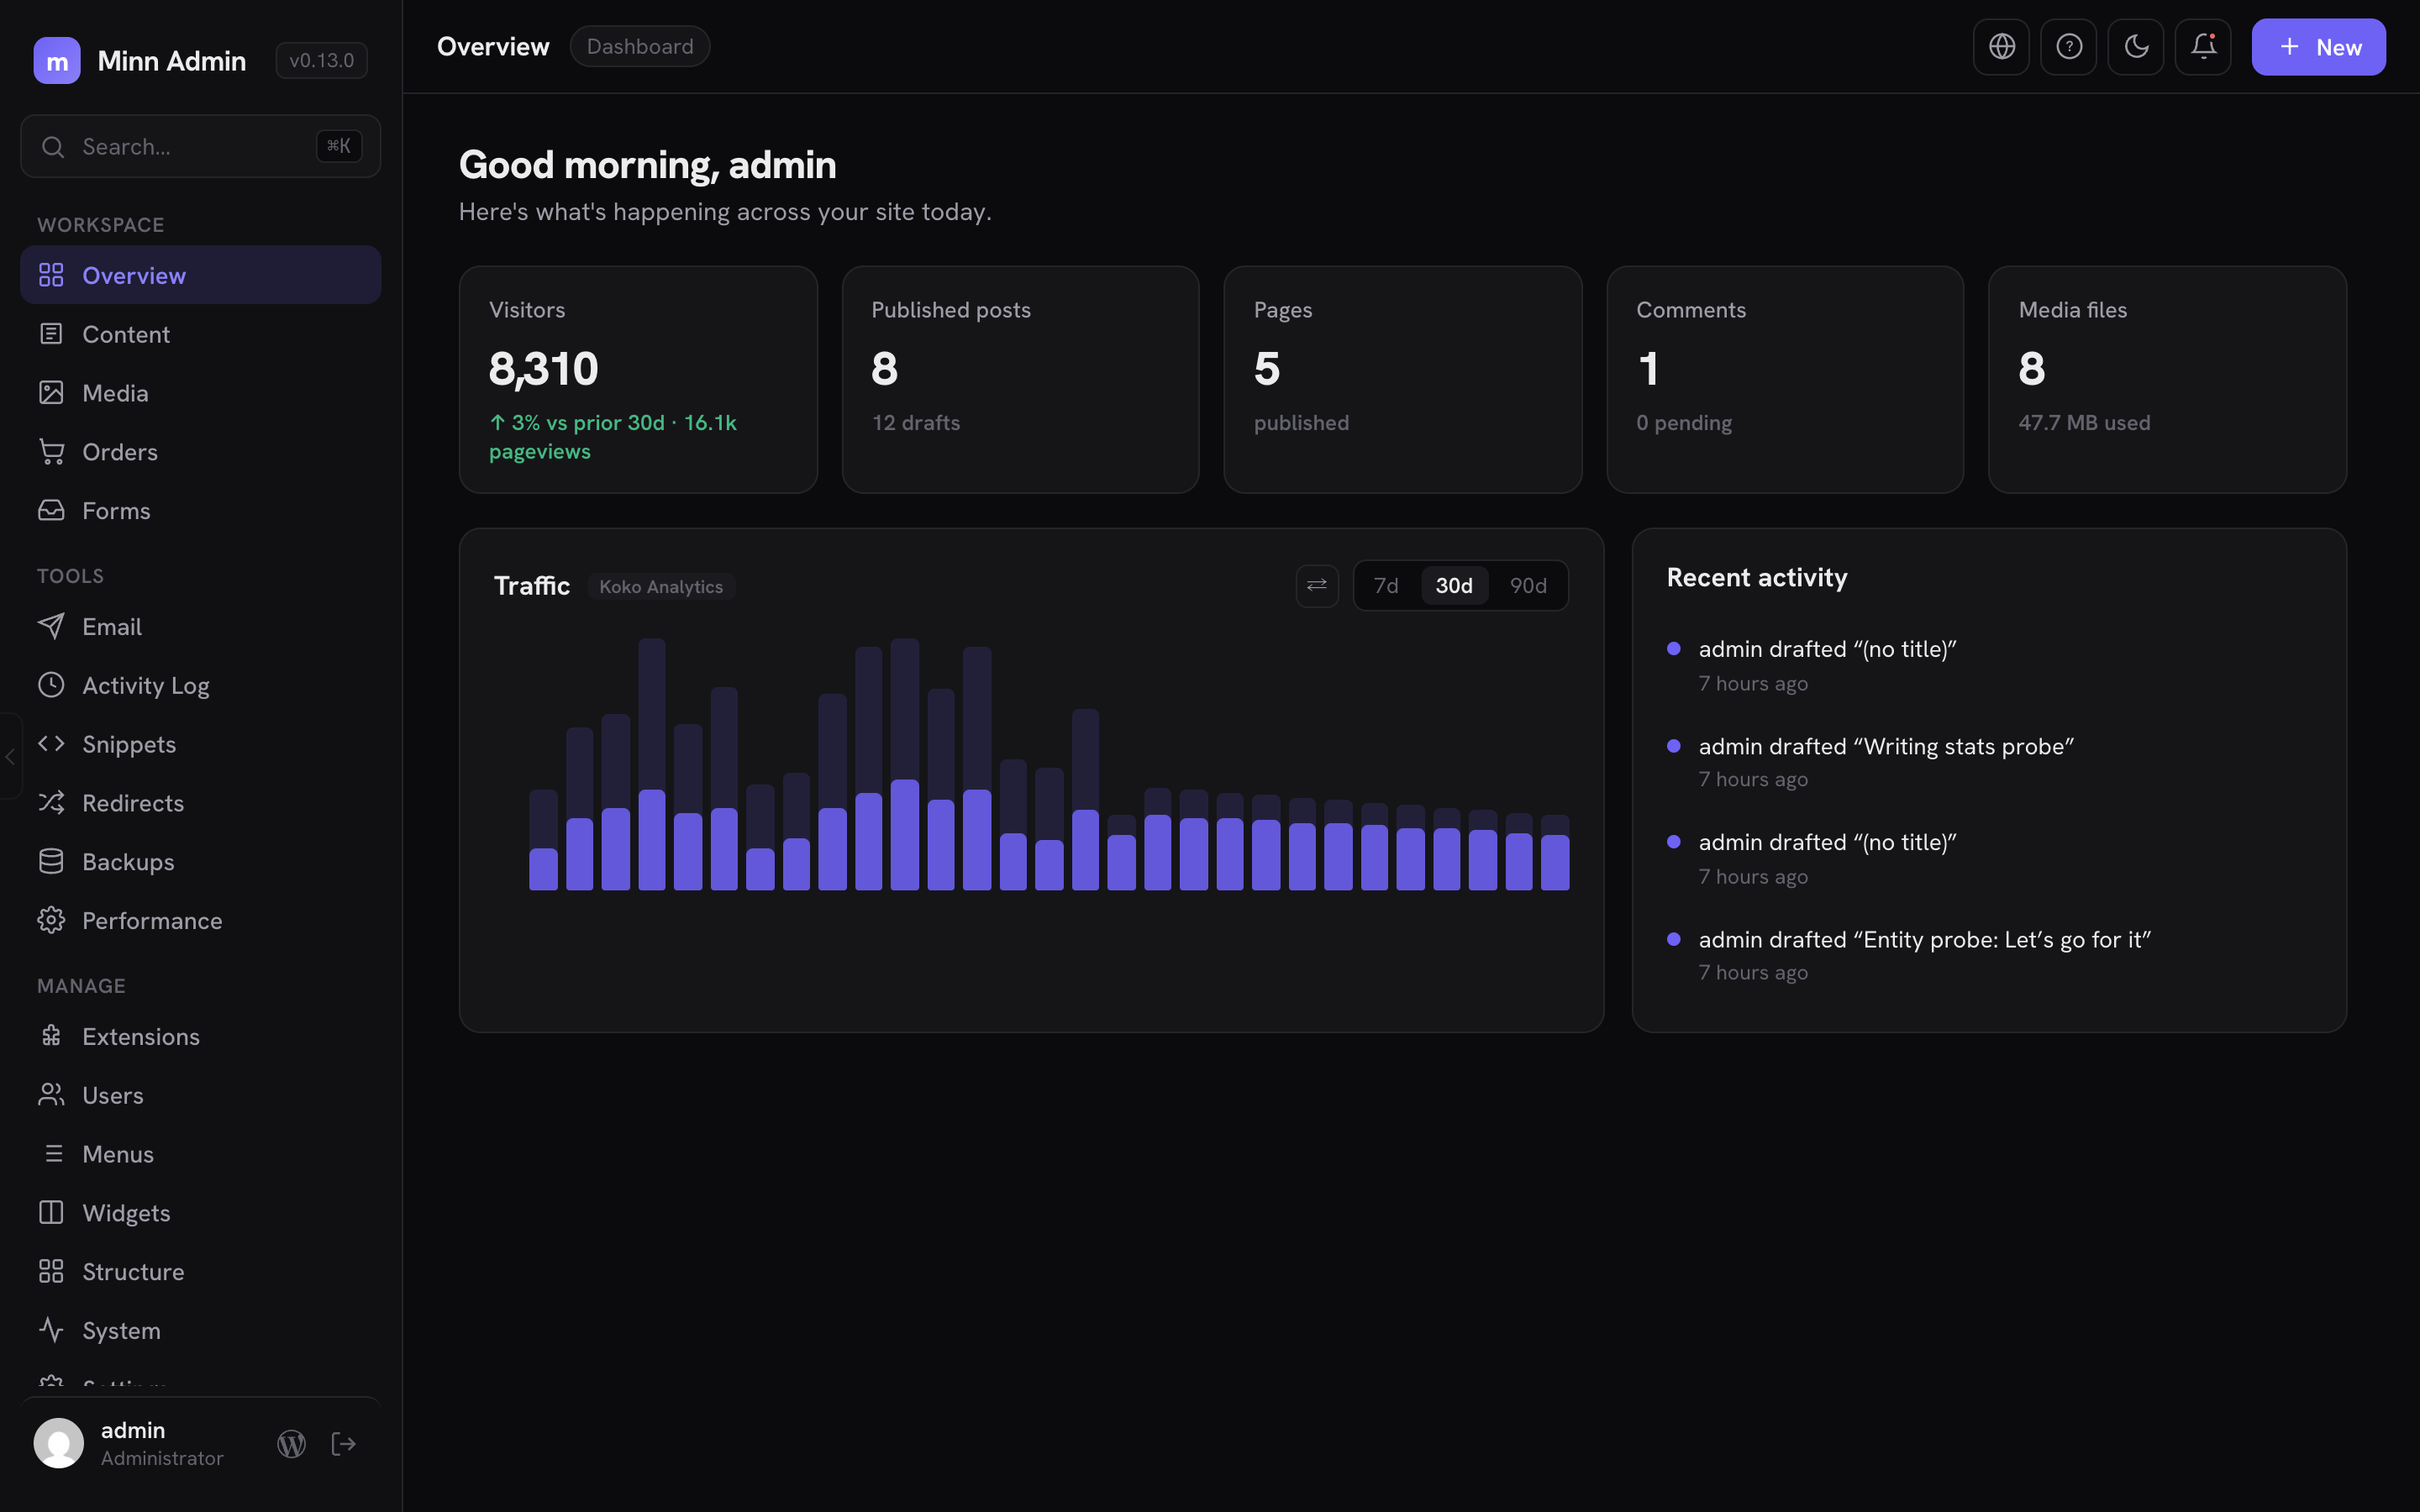
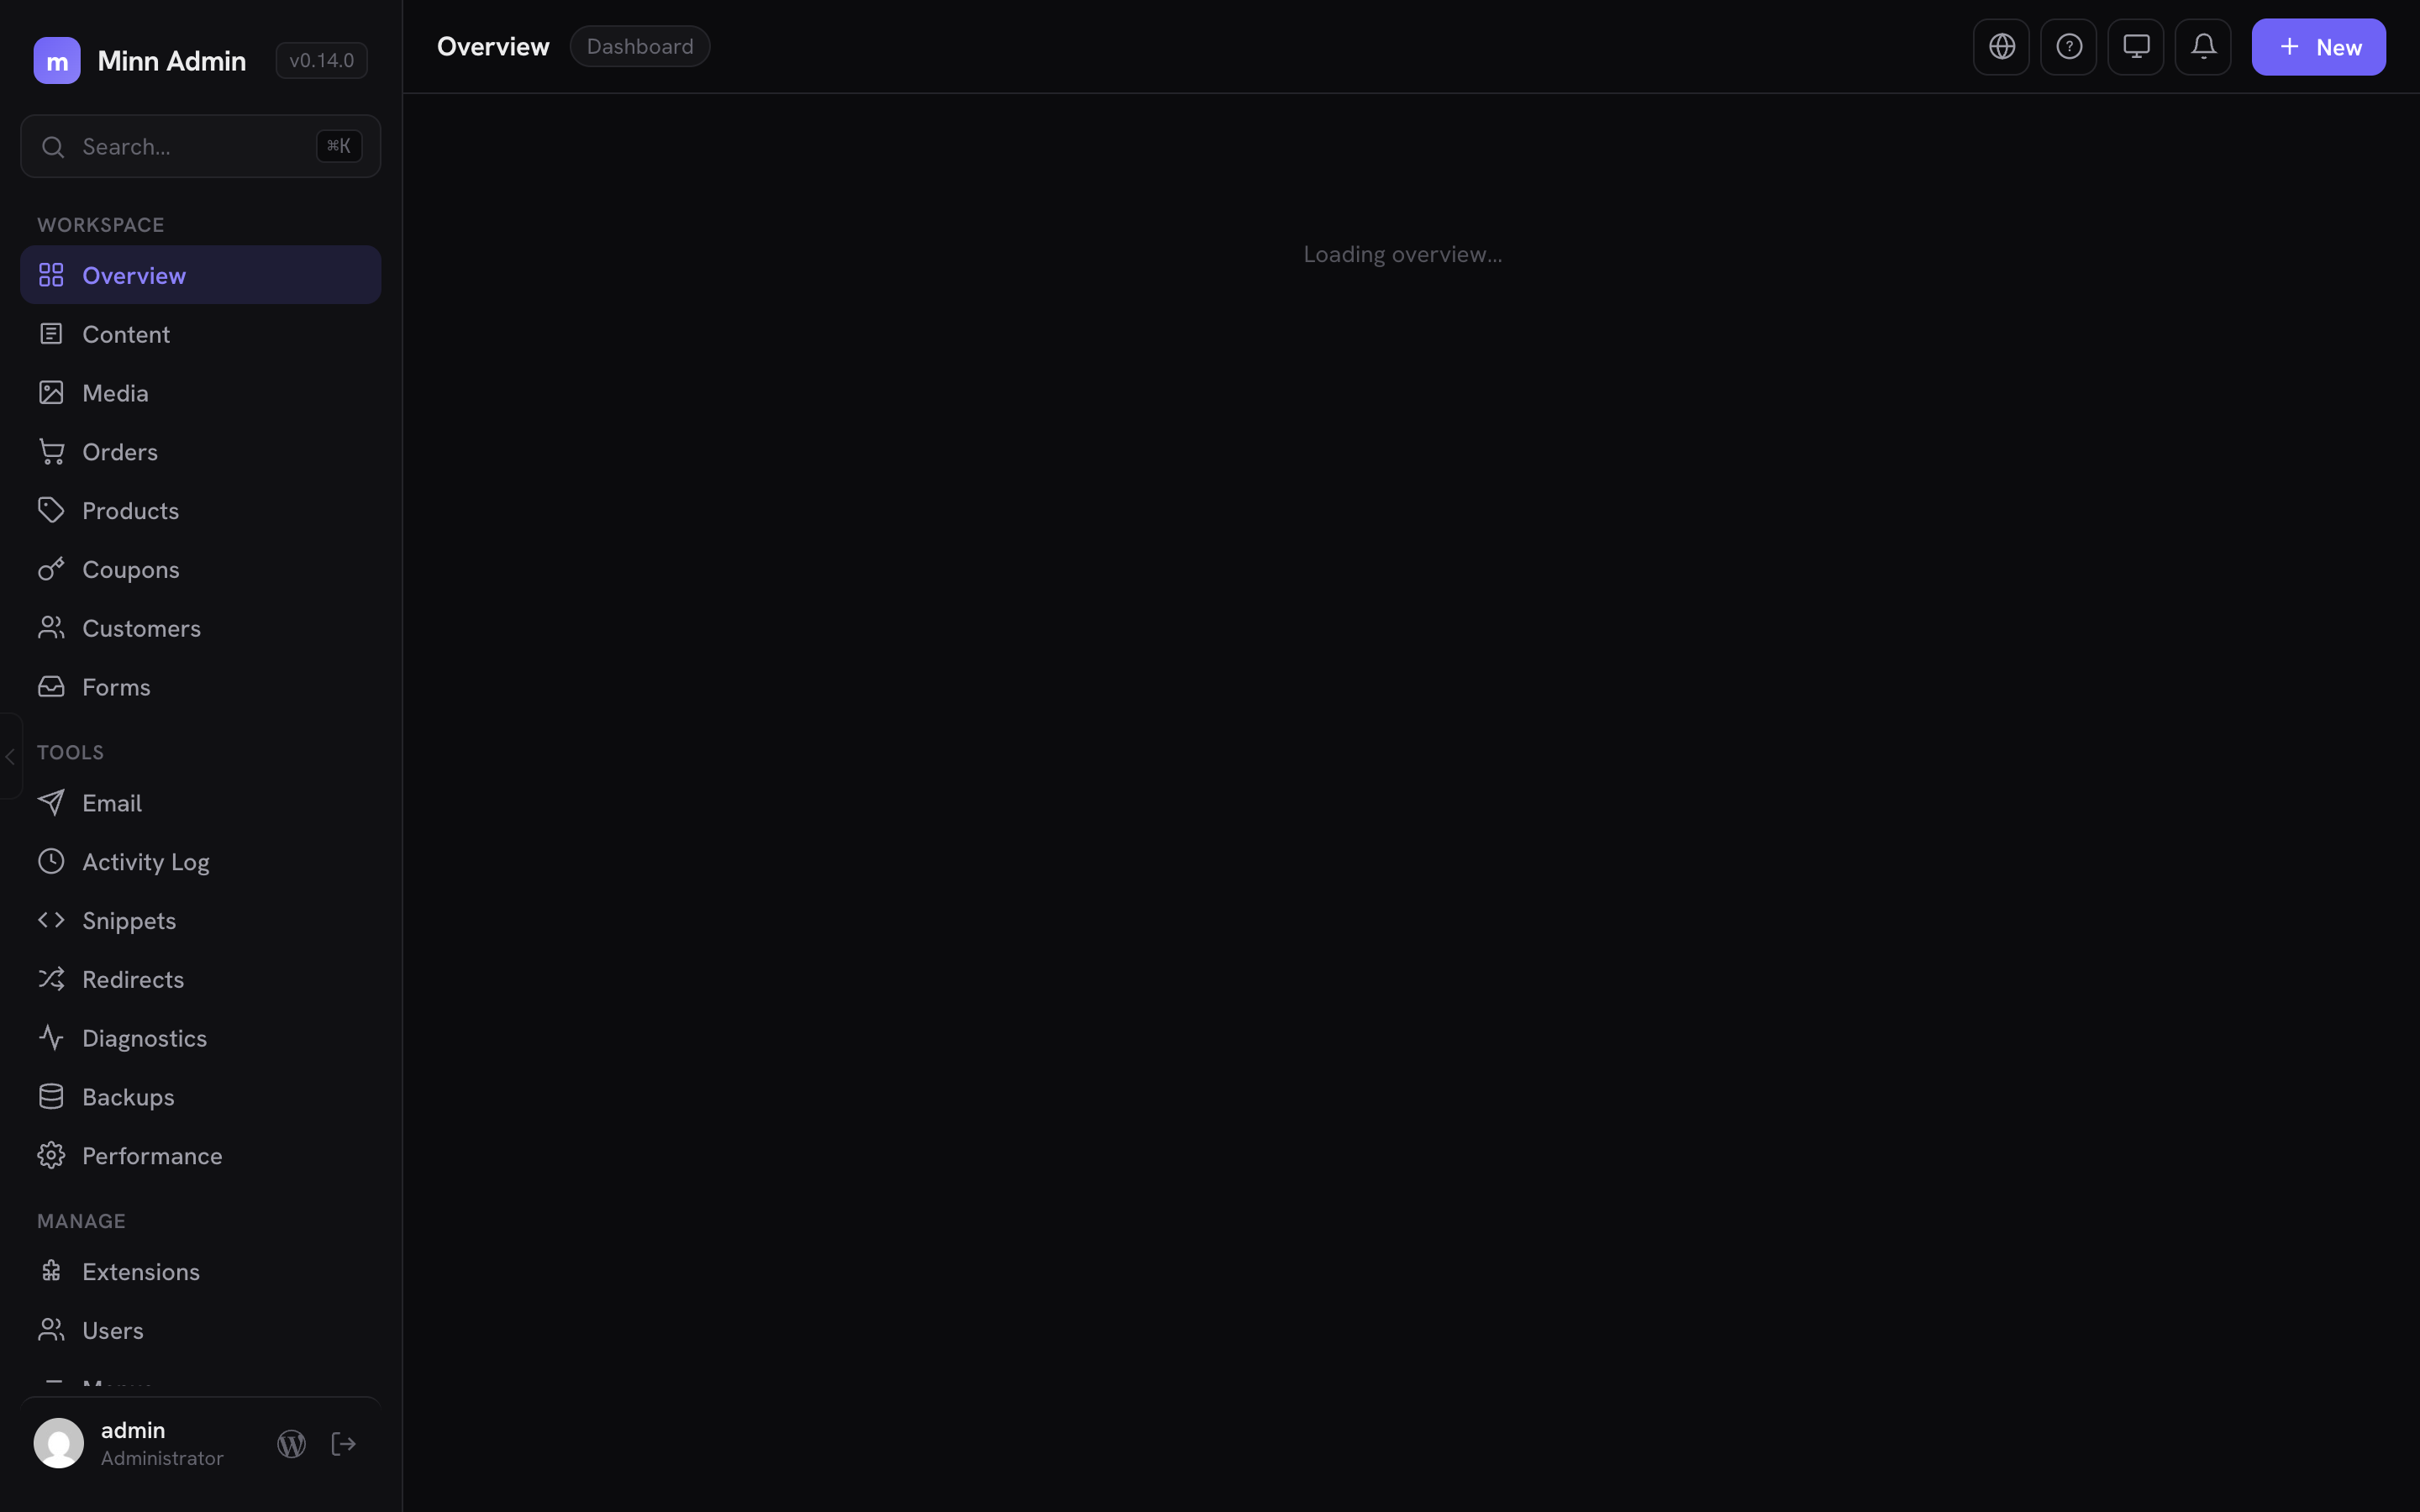
🚀 RELEASE: Minn Admin v0.14.0
The commerce release: Products, Coupons, Customers, order depth and
Analytics, Diagnostics family, Public Post Preview, FluentSMTP
search/delete, revisions browser, paste-URL-to-link and island copy.

diff --git a/minn-admin.php b/minn-admin.php
@@ -3,7 +3,7 @@
  * Plugin Name:       Minn Admin
  * Plugin URI:        https://github.com/austinginder/minn-admin
  * Description:       A reimagined WordPress admin experience. Fast, focused and beautiful. Served at /minn-admin/.
- * Version:           0.13.0
+ * Version:           0.14.0
  * Requires at least: 6.0
  * Requires PHP:      7.4
  * Author:            Austin Ginder
@@ -15,7 +15,7 @@
 
 defined( 'ABSPATH' ) || exit;
 
-define( 'MINN_ADMIN_VERSION', '0.13.0' );
+define( 'MINN_ADMIN_VERSION', '0.14.0' );
 define( 'MINN_ADMIN_FILE', __FILE__ );
 define( 'MINN_ADMIN_DIR', plugin_dir_path( __FILE__ ) );
 define( 'MINN_ADMIN_URL', plugin_dir_url( __FILE__ ) );

diff --git a/readme.md b/readme.md
@@ -36,8 +36,11 @@ vanilla-JS file. It lives *alongside* the classic wp-admin, which stays fully av
   **image editor**: rotate and crop, saved as a new copy with originals untouched
 - **Comments** — full moderation (pending / approved / spam / trash) with **bulk moderation**
   (each tab offers its own verbs), inline replies and a right-click menu for the same verbs
-- **Orders** — WooCommerce orders with summary cards, line-item detail, **status changes**, and
-  invoice / packing-slip downloads when PDF Invoices & Packing Slips is active
+- **Ecommerce** — full WooCommerce day-to-day in Minn: **Orders** (search, status, notes, refunds,
+  resend/custom email, pay URL, **New order**, **Analytics** with long-range revenue and top products),
+  **Products** (stock filters, bulk, daily fields, **Add product**), **Coupons**, and **Customers**.
+  Invoice / packing-slip downloads when PDF Invoices & Packing Slips is active. Product and coupon
+  CPTs are fenced out of Content.
 - **Users** — directory with search, a role filter, create/edit users, roles, passwords,
   **bulk role change**, **per-user login sessions with one-click sign-out**, **Switch to
   this user** when the User Switching plugin is active (a switched session shows a **Switch